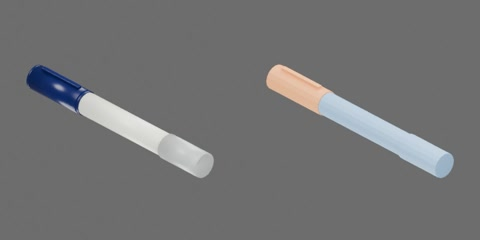
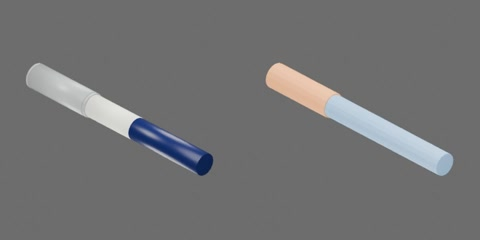
Correct translucent pen caps and wooden rack back panels

diff --git a/table_1000/modeling/asset_builders.py b/table_1000/modeling/asset_builders.py
@@ -211,9 +211,6 @@ def capped_pen(asset_id, profile):
     barrel_mat = material("Barrel plastic", profile["barrel_color"], 0.35)
     cap_mat = material("Cap plastic", profile["cap_color"], 0.30,
                        transmission=profile["cap_transmission"])
-    clip_mat = material("Pocket clip", profile["clip_color"], 0.32)
-    rear_mat = material("Rear plug", profile["rear_color"], 0.34,
-                        transmission=profile["rear_transmission"])
     ink = material("Writing tip", (0.018, 0.024, 0.020), 0.35)
     pen, cap = body("body", None), body("cap", None)
     pen["asset_id"] = asset_id
@@ -228,8 +225,16 @@ def capped_pen(asset_id, profile):
     tip = seat - g["neck_length_m"]
     cylinder("Barrel", g["barrel_radius_m"], g["barrel_end_x_m"]-seat-0.00005,
              ((seat+0.00005+g["barrel_end_x_m"])/2,0,0), barrel_mat, pen, segments=n)
-    cylinder("Rear plug", g["rear_radius_m"], g["rear_end_x_m"]-g["rear_start_x_m"],
-             ((g["rear_start_x_m"]+g["rear_end_x_m"])/2,0,0), rear_mat, pen, segments=n)
+    if "rear_end_x_m" in g:
+        rear_mat = material("Rear plug", profile["rear_color"], 0.34,
+                            transmission=profile["rear_transmission"])
+        cylinder("Rear plug", g["rear_radius_m"], g["rear_end_x_m"]-g["rear_start_x_m"],
+                 ((g["rear_start_x_m"]+g["rear_end_x_m"])/2,0,0), rear_mat, pen, segments=n)
+    if "label_length_m" in g:
+        label = material("Paper label", profile["label_color"], 0.60)
+        tube("Pale paper label", g["barrel_radius_m"]+.00005, g["barrel_radius_m"],
+             g["label_length_m"], (seat+.0001+g["label_length_m"]/2,0,0),
+             label, pen, segments=n, collision=False)
     cylinder("Neck", g["neck_radius_m"], g["neck_length_m"]+0.00005,
              ((tip+seat+0.00005)/2,0,0), barrel_mat, pen, segments=n)
     cylinder("Nib", g["nib_tip_radius_m"], g["nib_length_m"],
@@ -250,8 +255,10 @@ def capped_pen(asset_id, profile):
          (lip_end/2,0,0), cap_mat, cap, segments=n)
     cylinder("Cap end", g["cap_radius_m"], g["end_thickness_m"],
              (-g["cap_length_m"]+g["end_thickness_m"]/2,0,0), cap_mat, cap, segments=n)
-    box("Cap clip", profile["clip_dimensions_m"], profile["clip_position_m"],
-        clip_mat, cap, bevel=0.0003)
+    if "clip_dimensions_m" in profile:
+        clip_mat = material("Pocket clip", profile["clip_color"], 0.32)
+        box("Cap clip", profile["clip_dimensions_m"], profile["clip_position_m"],
+            clip_mat, cap, bevel=0.0003)
 
 
 def joint(name, kind, fixed, moving, position, limits, rotation=(0, 0, 0)):

diff --git a/asset_sources/objects/pen/000003/object.py b/asset_sources/objects/pen/000003/object.py
@@ -10,33 +10,27 @@ from asset_builders import capped_pen, generate
 
 PROFILE = {'geometry': {'segments': 16,
               'seat_x_m': -0.032,
-              'barrel_end_x_m': 0.0545,
+              'barrel_end_x_m': 0.086,
               'barrel_radius_m': 0.009,
-              'neck_length_m': 0.021,
+              'neck_length_m': 0.026,
               'neck_radius_m': 0.0078,
-              'nib_length_m': 0.01,
+              'nib_length_m': 0.013,
               'nib_tip_radius_m': 0.0022,
               'nib_base_radius_m': 0.0042,
-              'rear_start_x_m': 0.0535,
-              'rear_end_x_m': 0.093,
-              'rear_radius_m': 0.01,
-              'cap_radius_m': 0.0098,
-              'cap_length_m': 0.054,
+              'cap_radius_m': 0.01,
+              'cap_length_m': 0.061,
               'end_thickness_m': 0.0015,
               'lip_length_m': 0.003,
               'shell_inner_radius_m': 0.0086,
-              'rigid_lip_clearance_m': 0.0002},
- 'barrel_color': [0.82, 0.82, 0.73],
- 'cap_color': [0.008, 0.014, 0.09],
- 'clip_color': [0.008, 0.014, 0.09],
- 'rear_color': [0.67, 0.7, 0.69],
- 'cap_transmission': 0,
- 'rear_transmission': 0.48,
- 'clip_dimensions_m': [0.039, 0.0034, 0.0023],
- 'clip_position_m': [-0.0265, 0, 0.01095],
+              'rigid_lip_clearance_m': 0.0002,
+              'label_length_m': 0.046},
+ 'barrel_color': [0.008, 0.014, 0.09],
+ 'cap_color': [0.67, 0.7, 0.69],
+ 'cap_transmission': 0.48,
  'body_mass_kg': 0.012,
  'cap_mass_kg': 0.003,
- 'metal_point': False}
+ 'metal_point': False,
+ 'label_color': [0.82, 0.82, 0.73]}
 
 
 def build():

diff --git a/asset_sources/objects/pen/000004/object.py b/asset_sources/objects/pen/000004/object.py
@@ -10,33 +10,27 @@ from asset_builders import capped_pen, generate
 
 PROFILE = {'geometry': {'segments': 16,
               'seat_x_m': -0.032,
-              'barrel_end_x_m': 0.0545,
+              'barrel_end_x_m': 0.086,
               'barrel_radius_m': 0.009,
-              'neck_length_m': 0.021,
+              'neck_length_m': 0.026,
               'neck_radius_m': 0.0078,
-              'nib_length_m': 0.01,
+              'nib_length_m': 0.013,
               'nib_tip_radius_m': 0.0022,
               'nib_base_radius_m': 0.0042,
-              'rear_start_x_m': 0.0535,
-              'rear_end_x_m': 0.093,
-              'rear_radius_m': 0.01,
-              'cap_radius_m': 0.0098,
-              'cap_length_m': 0.054,
+              'cap_radius_m': 0.01,
+              'cap_length_m': 0.061,
               'end_thickness_m': 0.0015,
               'lip_length_m': 0.003,
               'shell_inner_radius_m': 0.0086,
-              'rigid_lip_clearance_m': 0.0002},
- 'barrel_color': [0.82, 0.82, 0.73],
- 'cap_color': [0.48, 0.012, 0.018],
- 'clip_color': [0.48, 0.012, 0.018],
- 'rear_color': [0.67, 0.7, 0.69],
- 'cap_transmission': 0,
- 'rear_transmission': 0.48,
- 'clip_dimensions_m': [0.039, 0.0034, 0.0023],
- 'clip_position_m': [-0.0265, 0, 0.01095],
+              'rigid_lip_clearance_m': 0.0002,
+              'label_length_m': 0.046},
+ 'barrel_color': [0.48, 0.012, 0.018],
+ 'cap_color': [0.67, 0.7, 0.69],
+ 'cap_transmission': 0.48,
  'body_mass_kg': 0.012,
  'cap_mass_kg': 0.003,
- 'metal_point': False}
+ 'metal_point': False,
+ 'label_color': [0.82, 0.82, 0.73]}
 
 
 def build():

diff --git a/asset_sources/objects/cabinet/000001/object.py b/asset_sources/objects/cabinet/000001/object.py
@@ -55,9 +55,10 @@ def build():
         ("Right open cubby floor", (.280, .350, .014), (.2835, .005, .225)),
         ("Right cabinet bottom", (.280, .350, .013), (.2835, .005, .008)),
         ("Drawer divider shelf", (.280, .337, .010), (.2835, .009, .115)),
-        ("Left upper rear rail", (.560, .013, .105), (-.147, .177, .376)),
+        ("Left upper rear rail", (.560, .013, .1606666667), (-.147, .177, .3481666667)),
+        ("Left lower rear board", (.560, .013, .1415), (-.147, .177, .07075)),
         ("Right upper rear rail", (.280, .013, .105), (.2835, .177, .376)),
-        ("Right cubby back", (.280, .009, .119), (.2835, .178, .279)),
+        ("Right cubby back", (.280, .009, .092), (.2835, .178, .2655)),
         ("Drawer cabinet back", (.280, .008, .210), (.2835, .177, .114)),
     ]:
         box(name, dimensions, position, wood, housing)

diff --git a/asset_sources/objects/pen/000003/README.md b/asset_sources/objects/pen/000003/README.md
@@ -1,5 +1,5 @@
-# 蓝盖粗记号笔
+# 蓝色粗笔
 
 ![preview](three_quarter.jpg)
 
-蓝盖粗记号笔，闭合约 179 × 20 × 22 mm。包括两个独立刚体：笔身（笔杆、笔颈、笔尖、后塞）和笔帽（空心壳、口沿、端盖、笔夹），无永久关节。−X 朝笔尖和拔帽方向。
+蓝色粗笔带浅色标签和半透明笔帽，闭合约 179 × 20 × 20 mm。包括两个独立刚体：笔身（彩色笔杆、标签、笔颈、笔尖）和半透明空心笔帽，无永久关节。−X 朝笔尖和拔帽方向。

diff --git a/asset_sources/objects/pen/000004/README.md b/asset_sources/objects/pen/000004/README.md
@@ -1,5 +1,5 @@
-# 红盖粗记号笔
+# 红色粗笔
 
 ![preview](three_quarter.jpg)
 
-红盖粗记号笔，闭合约 179 × 20 × 22 mm。包括两个独立刚体：笔身（笔杆、笔颈、笔尖、后塞）和笔帽（空心壳、口沿、端盖、笔夹），无永久关节。−X 朝笔尖和拔帽方向。
+红色粗笔带浅色标签和半透明笔帽，闭合约 179 × 20 × 20 mm。包括两个独立刚体：笔身（彩色笔杆、标签、笔颈、笔尖）和半透明空心笔帽，无永久关节。−X 朝笔尖和拔帽方向。

diff --git a/asset_sources/objects/cabinet/000001/README.md b/asset_sources/objects/cabinet/000001/README.md
@@ -2,4 +2,4 @@
 
 ![preview](three_quarter.jpg)
 
-棕色木架带开放层架和两个白色面板抽屉，约 874 × 379 × 435 mm。包括三个刚体：木架、上抽屉、下抽屉。两个 SLIDER 关节限位均为 [0, 0.208] m，正值沿 −Y 拉出，零位闭合。
+棕色木架带后挡板和开缝层架和两个白色面板抽屉，约 874 × 379 × 435 mm。包括三个刚体：木架、上抽屉、下抽屉。两个 SLIDER 关节限位均为 [0, 0.208] m，正值沿 −Y 拉出，零位闭合。
